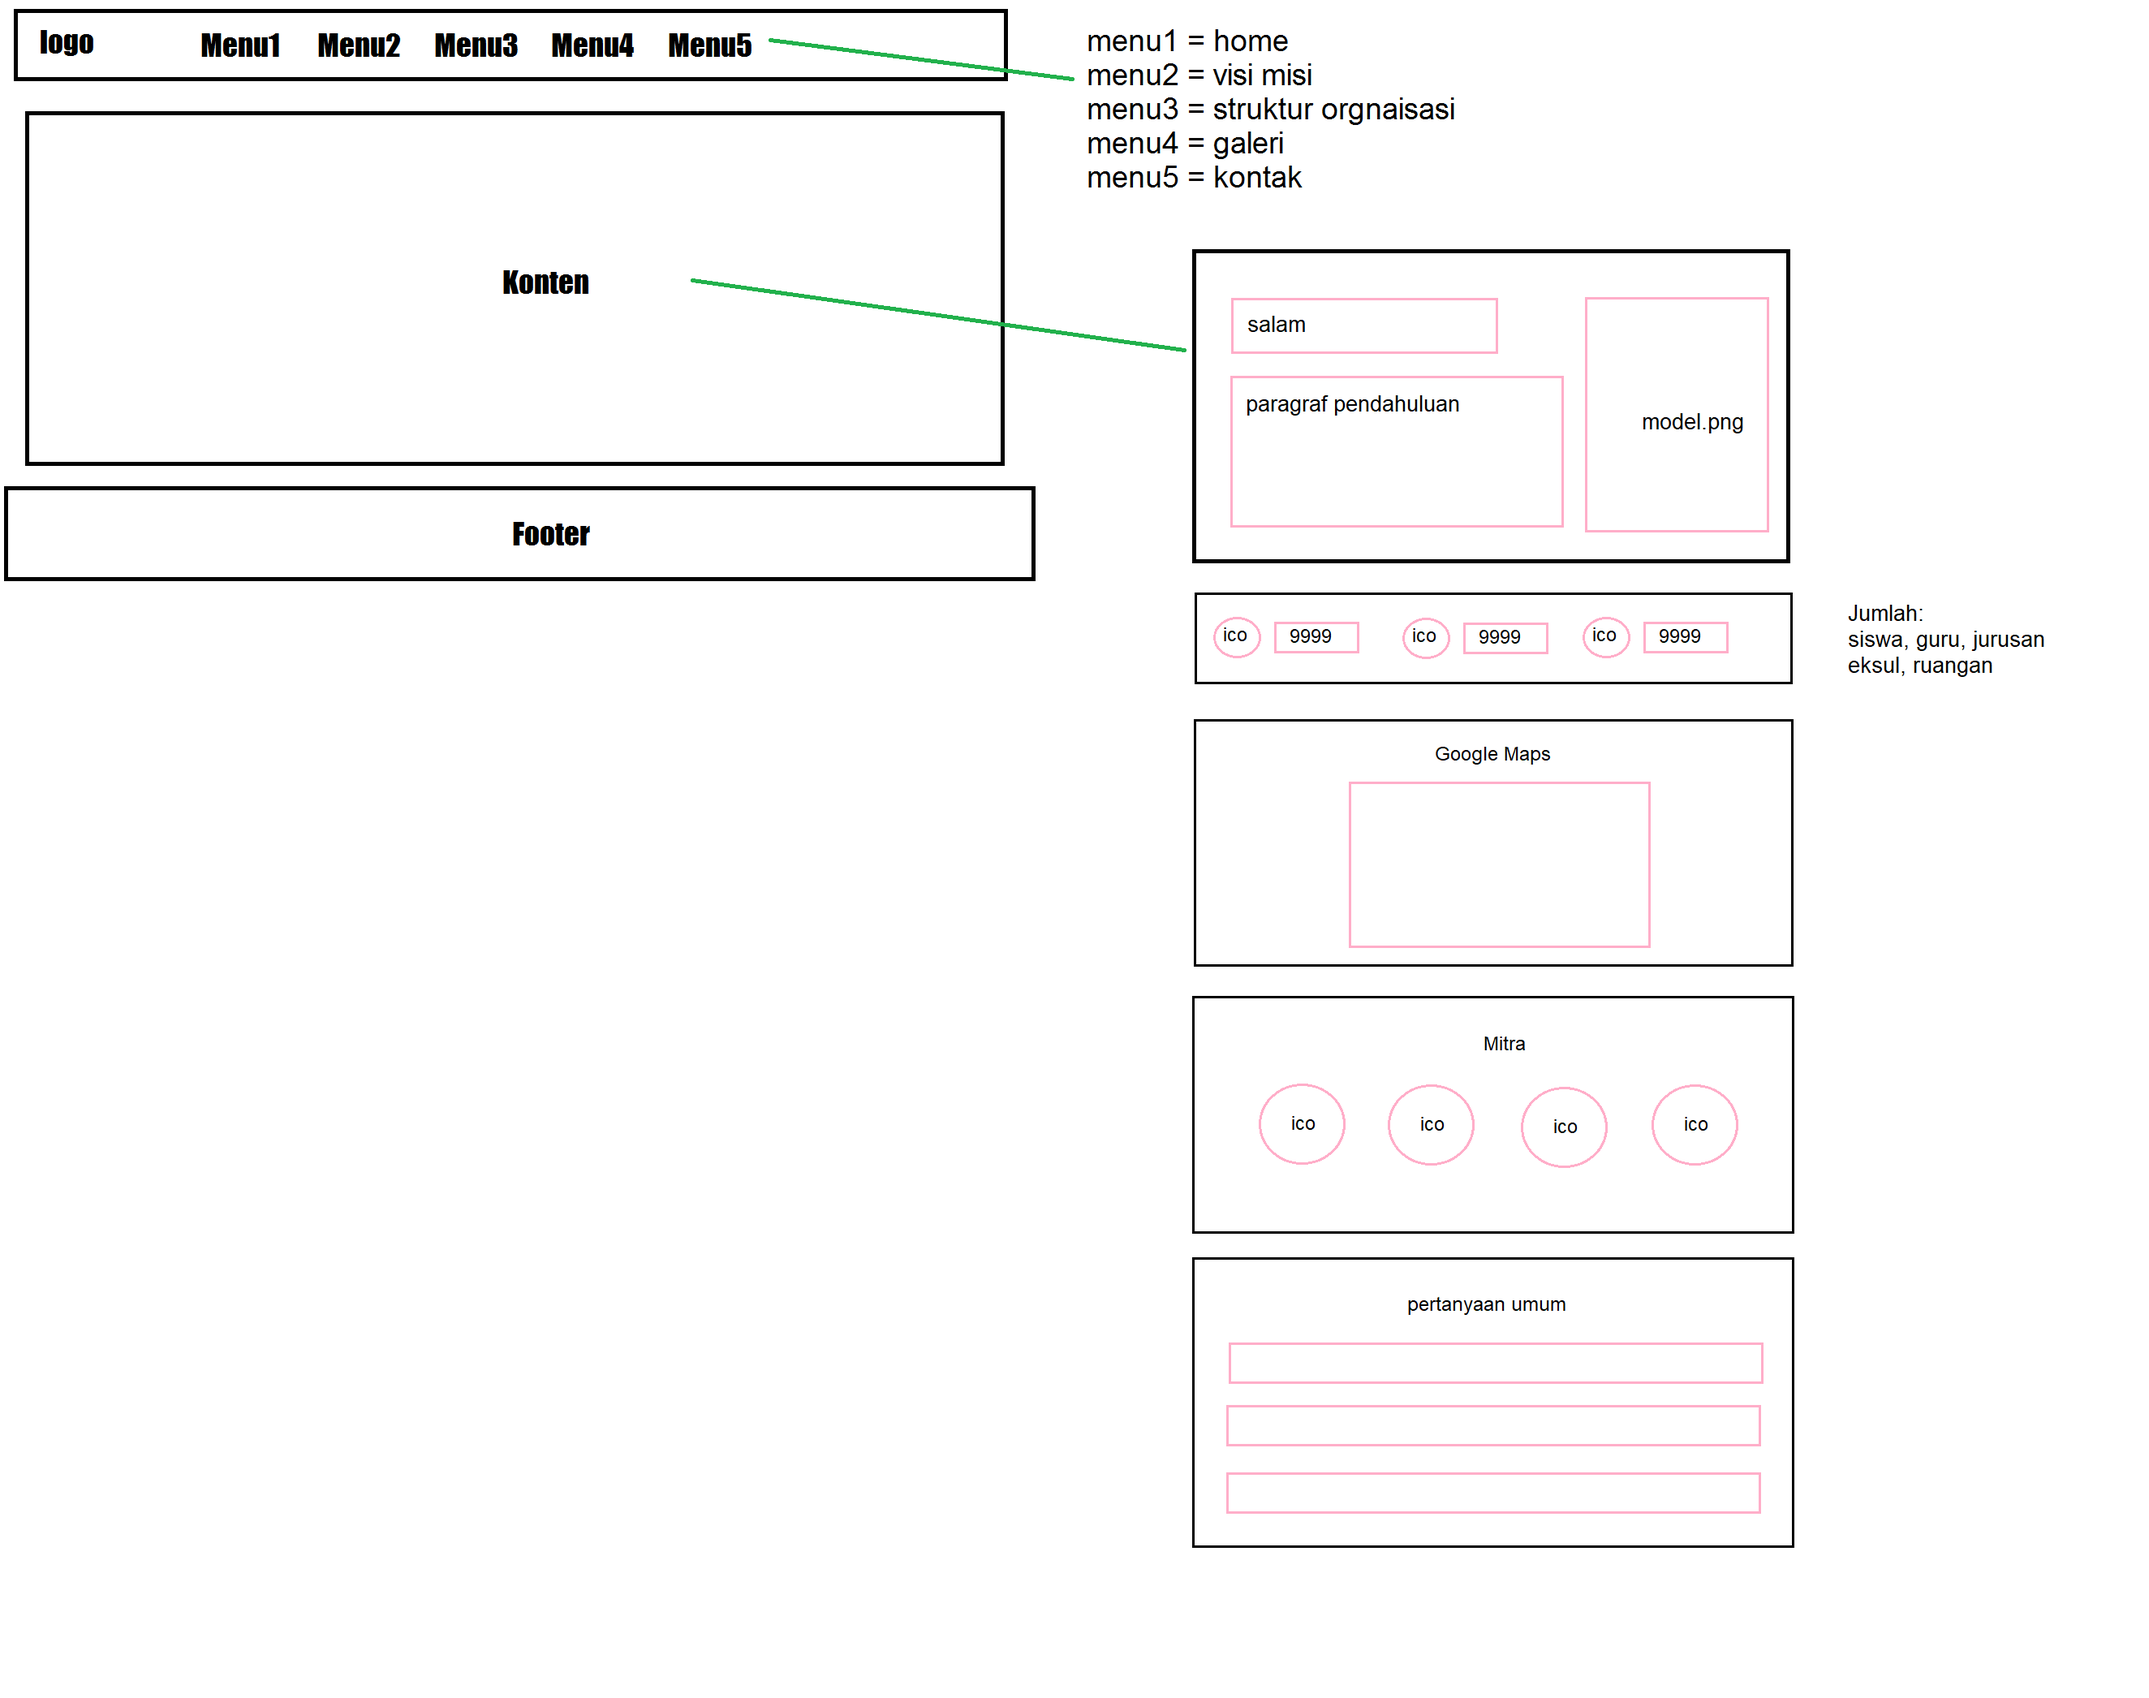
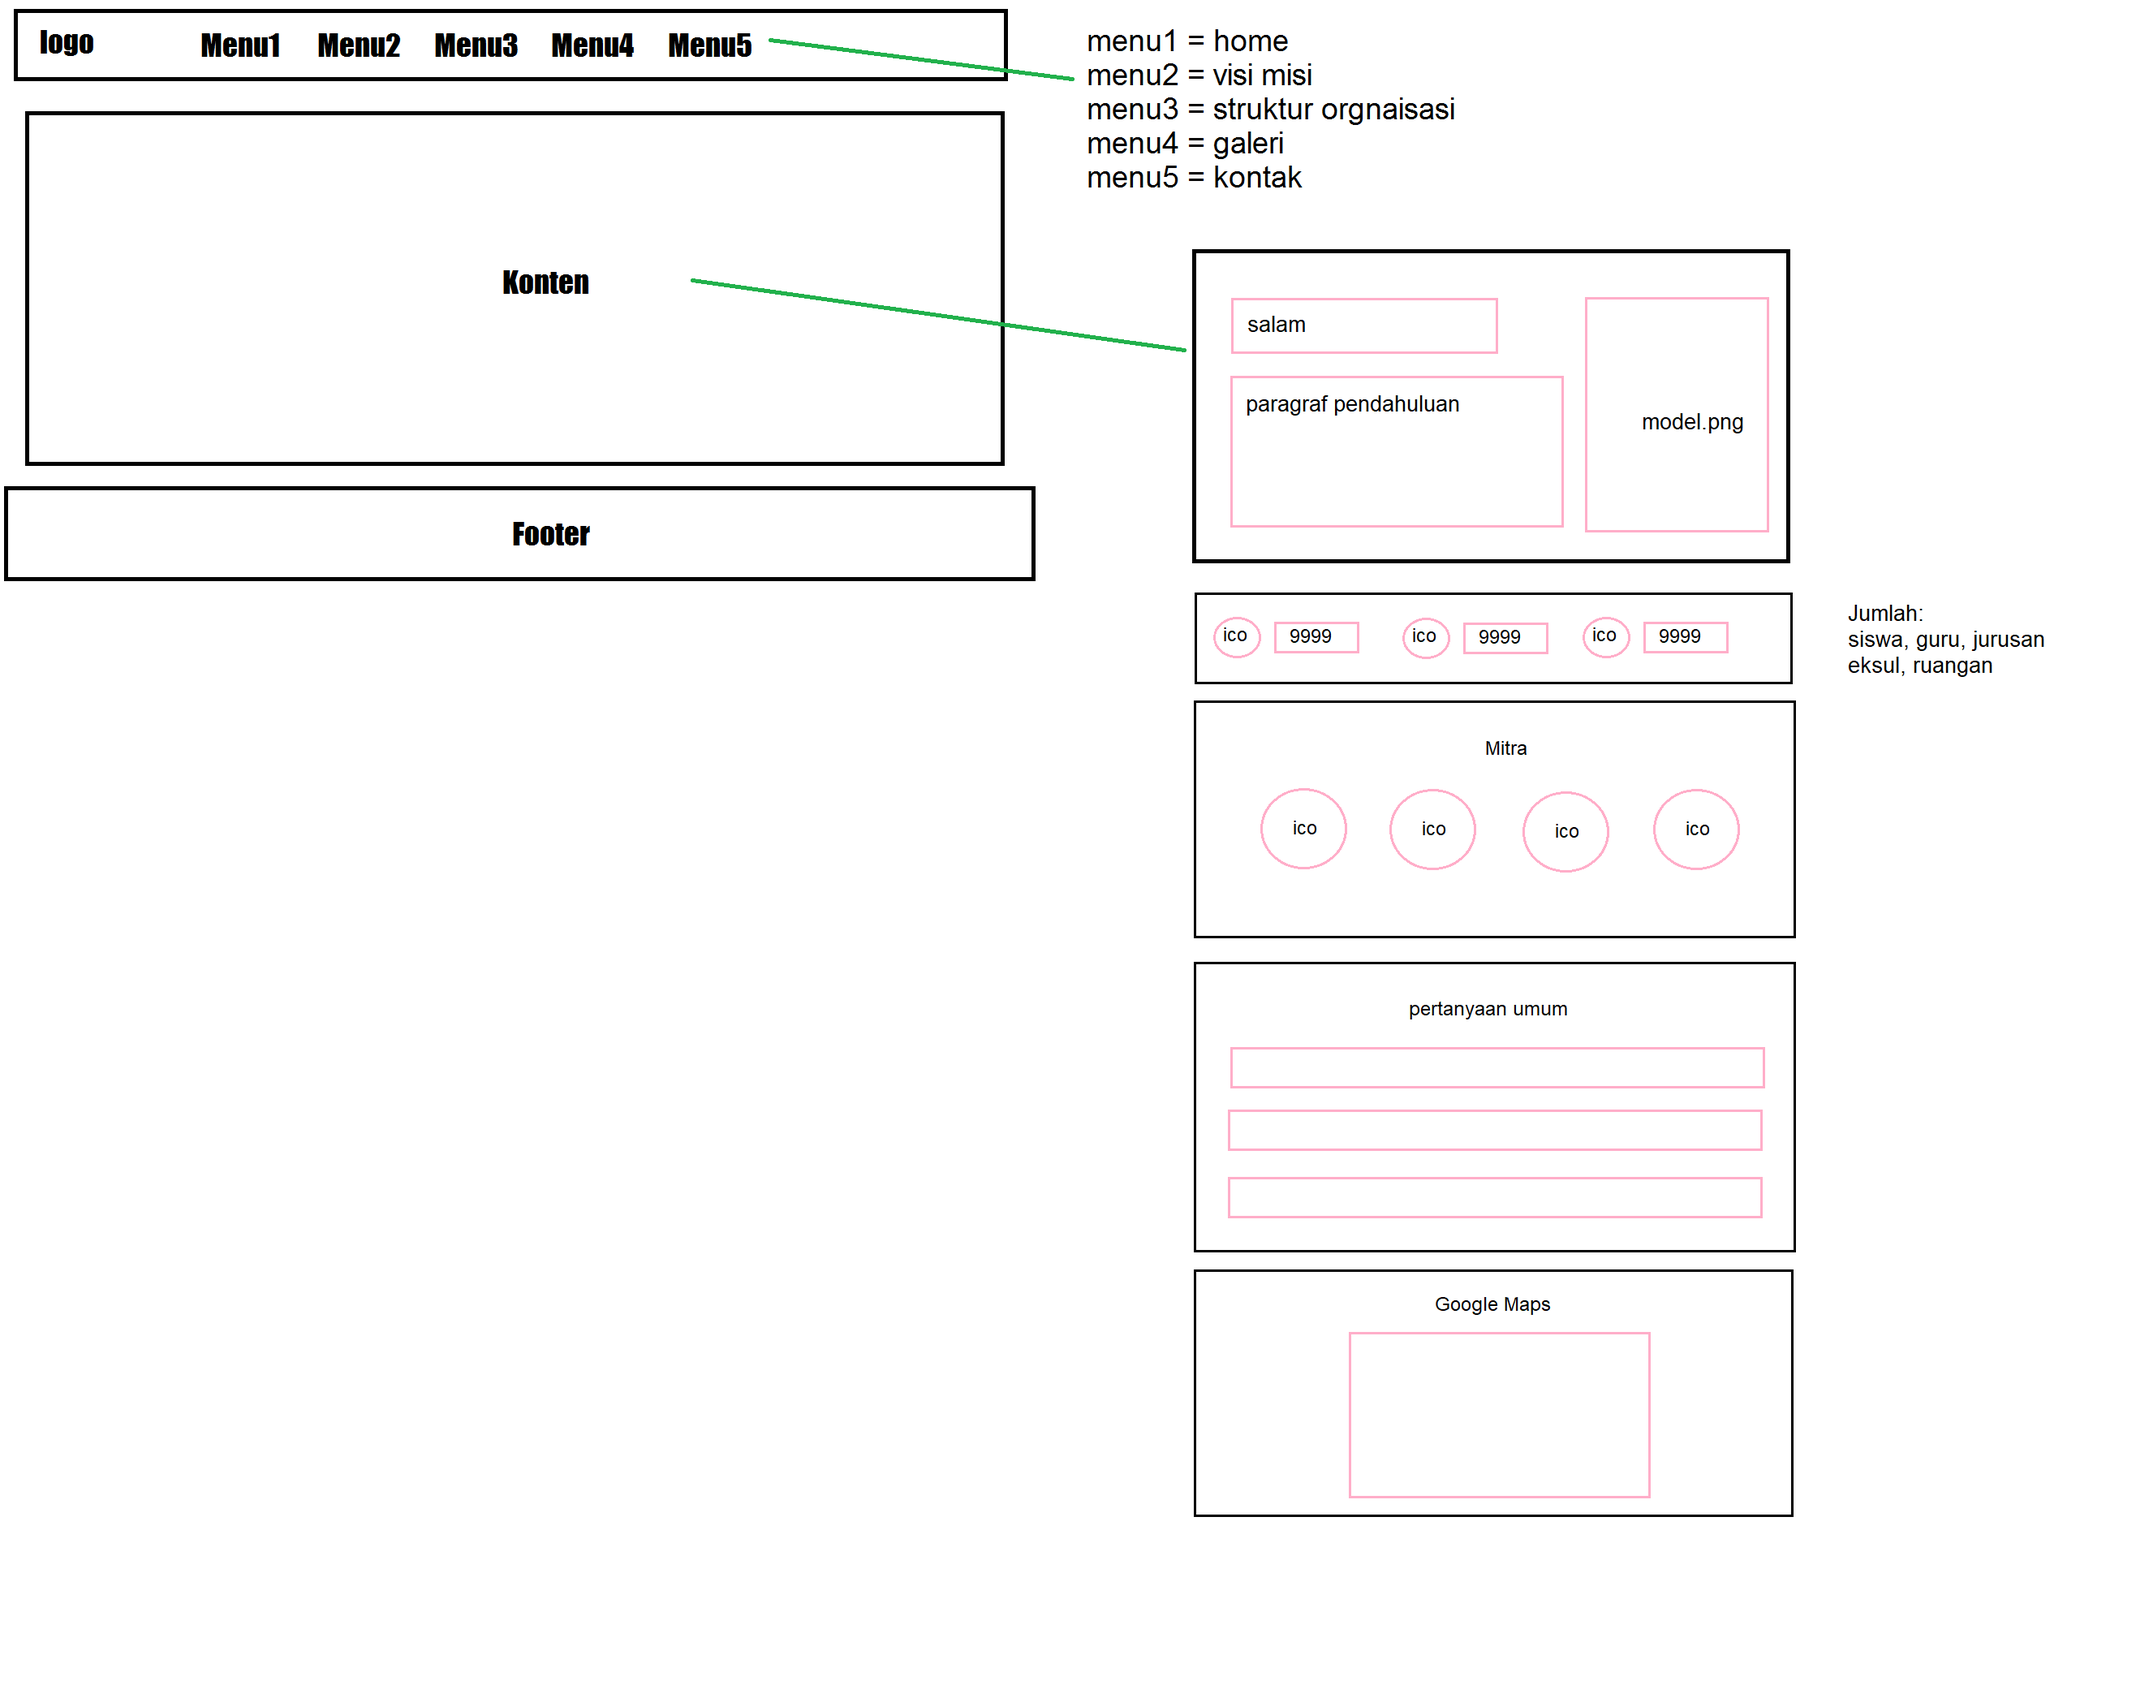
first commit

diff --git a/index.html b/index.html
@@ -55,12 +55,114 @@
           <li class="nav-item ms-2 d-none d-md-inline">
             <a class="btn btn-secondary" style="background-color: #617A55;" href="#pricing">Kontak</a>
           </li>
-          
         </ul>
       </div>
     </div>
   </nav>
 
+ 
+<!-- main image & intro text -->
+  <section id="intro">
+    <div class="container-lg">
+      <div class="row g-4 justify-content-center align-items-center">
+        <div class="col-md-6 text-center text-md-start">
+          <h1>
+            <div class="display-2">Selamat datang,</div>
+            <div class="display-5 text-muted">di Website SMP PGRI Rawalumbu</div>
+          </h1>
+          <p class="lead my-4 text-muted">Kami percaya untuk mengahasilkan talenta unggul diperlukan pemeliharaan pikiran dan hati. Situs web sekolah kami dirancang untuk memberi Anda pandangan sekilas yang komprehensif ke permadani kaya peluang akademik, ko-kurikuler, dan ekstrakurikuler yang menunggu anak Anda dalam komunitas belajar kami yang dinamis.</p>
+          <a href="#pricing" class="btn btn-secondary btn-lg" style="background-color: #617A55;">Brosur Sekolah</a>
+        </div>
+        <div class="col-md-5 text-end d-none d-md-block">
+          <!-- tooltip -->
+          <span class="tt" data-bs-placement="bottom" title="Buku Outlier">
+            <img src="https://i.postimg.cc/rsmSvnd3/image-removebg-preview.png" class="img-fluid" alt="ebook">
+          </span>
+        </div>
+      </div>
+    </div>
+  </section>
+  
+  
+  
+  <!-- pricing plans -->
+  <section id="pricing" style="background-color: #E3F2C1;">
+    <div class="container-lg">
+      <div class="text-center">
+        <h2 class="fw-bold">Fasilitas</h2>
+        <p class="lead text-muted">Fasilitas yang kami sediakan</p>
+		<div class="container mt-5">
+		  <div class="row">
+			<div class="col-3">col-3</div>
+			<div class="col-3">col-3</div>
+			<div class="col-3">col-3</div>
+			<div class="col-3">col-3</div>
+		  </div>
+		</div>
+      </div>
+    </div><!-- end container -->
+  </section>
+
+  
+  
+  <!-- pricing plans -->
+  <section id="pricing">
+    <div class="container-lg">
+      <div class="text-center">
+        <h2 class="fw-bold">Mitra</h2>
+        <p class="lead text-muted">Kami bekerja sama dengan</p>
+		<div class="container mt-5">
+		  <div class="row">
+			<div class="col-3">col-3</div>
+			<div class="col-3">col-3</div>
+			<div class="col-3">col-3</div>
+			<div class="col-3">col-3</div>
+		  </div>
+		</div>
+      </div>
+    </div><!-- end container -->
+  </section>
+
+  
+  
+  <!-- pricing plans -->
+  <section id="pricing" style="background-color: #E3F2C1;">
+    <div class="container-lg">
+      <div class="text-center">
+        <h2 class="fw-bold">Penduan Pendaftaran</h2>
+        <p class="lead text-muted">Untuk Peserta Didik Baru</p>
+		<div class="container mt-5">
+		  <div class="row">
+			<div class="col-3">col-3</div>
+			<div class="col-3">col-3</div>
+			<div class="col-3">col-3</div>
+			<div class="col-3">col-3</div>
+		  </div>
+		</div>
+      </div>
+    </div><!-- end container -->
+  </section>
+
+  
+  
+  <!-- pricing plans -->
+  <section id="pricing">
+    <div class="container-lg">
+      <div class="text-center">
+        <h2 class="fw-bold">Lokasi Sekolah</h2>
+		<div class="container mt-5">
+		  <div class="row">
+			<div class="col-3">col-3</div>
+			<div class="col-3">col-3</div>
+			<div class="col-3">col-3</div>
+			<div class="col-3">col-3</div>
+		  </div>
+		</div>
+      </div>
+    </div><!-- end container -->
+  </section>
+
+  
   
   <script src="https://cdn.jsdelivr.net/npm/bootstrap@5.0.1/dist/js/bootstrap.bundle.min.js" integrity="sha384-gtEjrD/SeCtmISkJkNUaaKMoLD0//ElJ19smozuHV6z3Iehds+3Ulb9Bn9Plx0x4" crossorigin="anonymous"></script>
   <script>
